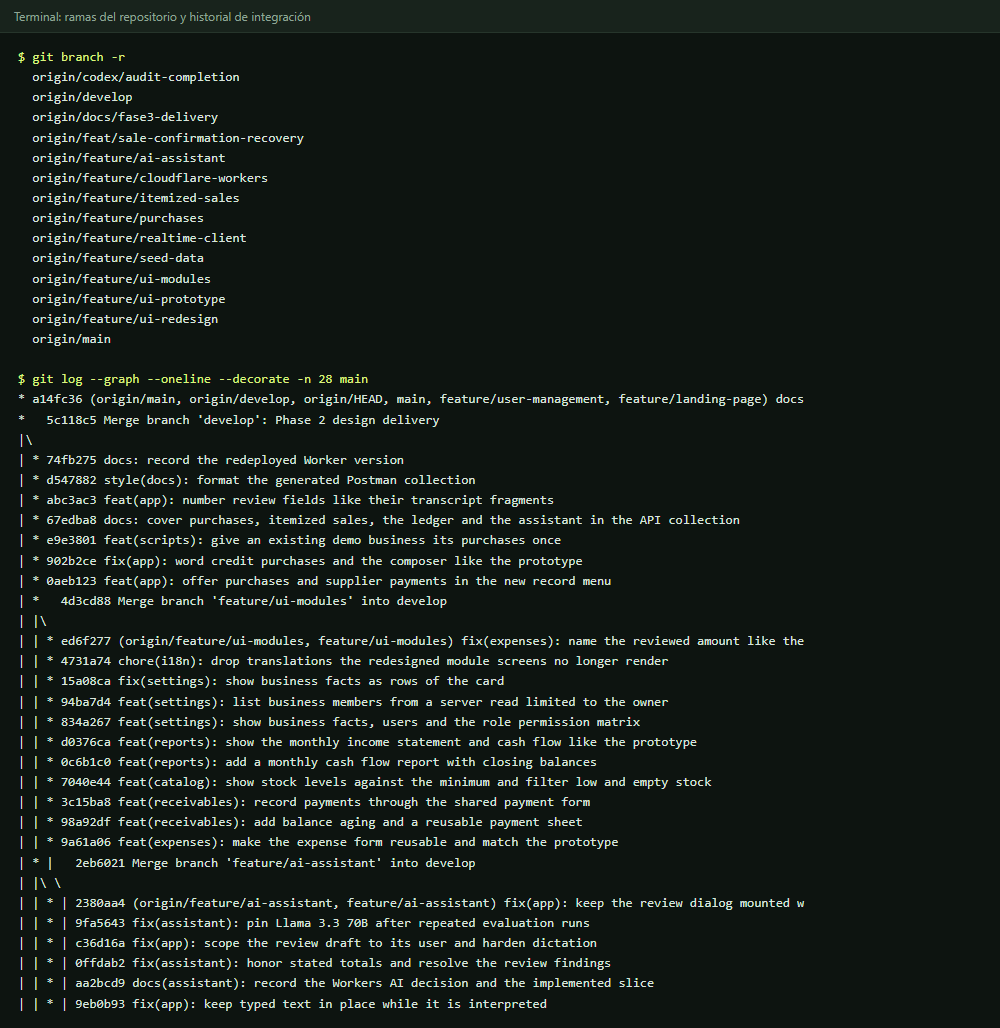
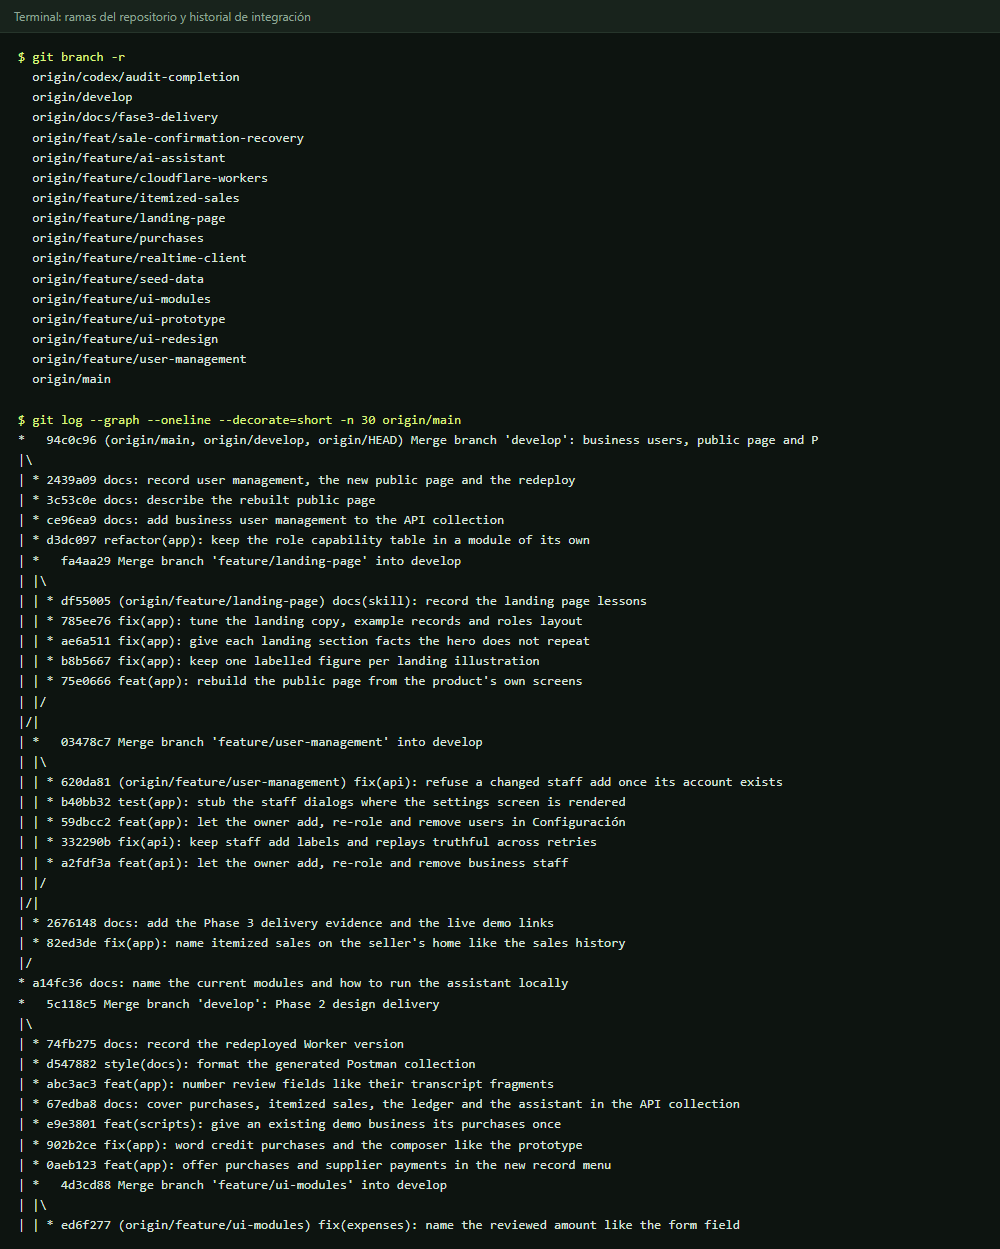
docs: complete the Phase 3 evidence with users, the public page and the deploy
The evidence page now covers business user management, the rebuilt public
page, the 147-request collection run and the production deploy output, with
39 figures numbered after the cumulative course document.

Changed region(s): [[0.0, 0.0, 0.806, 0.9961], [0.589, 0.3424, 0.806, 0.4047], [0.682, 0.4981, 0.744, 0.5292]]

diff --git a/docs/fase3-entrega.md b/docs/fase3-entrega.md
@@ -102,6 +102,10 @@ El sistema respeta la arquitectura por capas de la Fase 2. La capa de controlado
 | Asistente de IA (módulo de soporte) | GET /v1/assistant/status, POST /v1/assistant/interpretations, POST /v1/assistant/transcriptions |
 | Tiempo real | GET /v1/realtime (WebSocket) |
 
+### Gestión de usuarios
+
+El dueño del negocio administra a su personal desde Configuración: agrega un usuario nuevo (el API crea la cuenta con el mismo cifrado del registro) o una cuenta existente, le asigna el rol de encargado o vendedor, cambia su rol y lo quita del negocio. Solo el dueño puede hacerlo, nadie puede volverse dueño por esta vía, el dueño no puede quitarse a sí mismo y un usuario quitado pierde el acceso en su siguiente petición. Cada comando usa una llave de idempotencia y avisa por tiempo real a las demás sesiones.
+
 ### Mecanismos de seguridad
 
 - Contraseñas cifradas con hash scrypt (Better Auth); nunca se guardan ni se devuelven en texto plano (figura de integridad).
@@ -204,103 +208,127 @@ Las pantallas se implementaron a partir de los prototipos de alta fidelidad de l
 | Figura 23. Reportes | Reportes | /operate/reports |
 | Figura 24. Configuración | Configuración y usuarios | /settings |
 
-**Figura 38. Pantalla Inicio de sesión implementada**
+**Figura 38. Página de inicio pública**
+
+![Página de inicio pública](fase3/landing-1280.png)
+
+*Página que ve un visitante antes de iniciar sesión: la pantalla Hoy de un negocio de ejemplo, el registro por voz paso a paso, los módulos y los roles.*
+
+**Figura 39. Página de inicio pública en teléfono**
+
+![Página de inicio pública en teléfono](fase3/landing-390.png)
+
+*La misma página en un teléfono.*
+
+**Figura 40. Pantalla Inicio de sesión implementada**
 
 ![Pantalla Inicio de sesión implementada](fase3/signin-1280.png)
 
 *Implementación del prototipo de la figura 9.*
 
-**Figura 39. Pantalla Hoy implementada**
+**Figura 41. Pantalla Hoy implementada**
 
 ![Pantalla Hoy implementada](fase3/home-1280.png)
 
 *Dinero disponible con su gráfico, el registro por voz o texto, movimientos de hoy, por cobrar y por pagar (figuras 10 y 12).*
 
-**Figura 40. Pantalla Hoy en teléfono**
+**Figura 42. Pantalla Hoy en teléfono**
 
 ![Pantalla Hoy en teléfono](fase3/home-390.png)
 
 *La misma pantalla en un teléfono, con la tarjeta de dinero en lima como en la figura 11.*
 
-**Figura 41. Menú ¿Qué quiere registrar?**
+**Figura 43. Menú ¿Qué quiere registrar?**
 
 ![Menú ¿Qué quiere registrar?](fase3/new-menu-1280.png)
 
 *Las cinco opciones de registro del prototipo de la figura 11.*
 
-**Figura 42. Nuevo registro por voz**
+**Figura 44. Nuevo registro por voz**
 
 ![Nuevo registro por voz](fase3/dictation-1280.png)
 
 *Diálogo de dictado escuchando el micrófono (figura 12).*
 
-**Figura 43. Revisión del registro creado por el asistente de IA**
+**Figura 45. Revisión del registro creado por el asistente de IA**
 
 ![Revisión del registro creado por el asistente de IA](fase3/assistant-review-1280.png)
 
 *La frase dictada con sus fragmentos numerados y el formulario de venta lleno con los mismos números (figura 13); el usuario confirma antes de guardar.*
 
-**Figura 44. Pantalla Movimientos implementada**
+**Figura 46. Pantalla Movimientos implementada**
 
 ![Pantalla Movimientos implementada](fase3/movements-1280.png)
 
 *Ventas, compras, gastos, abonos y pagos en un solo libro con totales del período (figura 14).*
 
-**Figura 45. Pantalla Nueva venta implementada**
+**Figura 47. Pantalla Nueva venta implementada**
 
 ![Pantalla Nueva venta implementada](fase3/sale-new-1280.png)
 
 *Venta con productos, forma de pago y crédito (figura 15).*
 
-**Figura 46. Pantalla Nueva compra implementada**
+**Figura 48. Pantalla Nueva compra implementada**
 
 ![Pantalla Nueva compra implementada](fase3/purchase-new-1280.png)
 
 *Compra al contado o al crédito con productos que entran al inventario.*
 
-**Figura 47. Pantalla Nuevo gasto con validación**
+**Figura 49. Pantalla Nuevo gasto con validación**
 
 ![Pantalla Nuevo gasto con validación](fase3/state-validation-expense-1280.png)
 
 *Los campos obligatorios vacíos se señalan antes de enviar (figura 17).*
 
-**Figura 48. Pantalla Cuentas por cobrar implementada**
+**Figura 50. Pantalla Cuentas por cobrar implementada**
 
 ![Pantalla Cuentas por cobrar implementada](fase3/receivables-1280.png)
 
 *Saldos, antigüedad de las deudas y filtros (figura 18).*
 
-**Figura 49. Registrar abono**
+**Figura 51. Registrar abono**
 
 ![Registrar abono](fase3/payment-sheet-1280.png)
 
 *Panel para registrar el abono de un cliente (figura 19).*
 
-**Figura 50. Pantalla Cuentas por pagar implementada**
+**Figura 52. Pantalla Cuentas por pagar implementada**
 
 ![Pantalla Cuentas por pagar implementada](fase3/payables-1280.png)
 
 *Lo que se debe a proveedores, lo vencido y el próximo pago (figura 20).*
 
-**Figura 51. Pantalla Productos implementada**
+**Figura 53. Pantalla Productos implementada**
 
 ![Pantalla Productos implementada](fase3/products-1280.png)
 
 *Existencias contra el mínimo y filtros de existencia baja y agotados (figura 21).*
 
-**Figura 52. Pantalla Proveedores implementada**
+**Figura 54. Pantalla Proveedores implementada**
 
 ![Pantalla Proveedores implementada](fase3/suppliers-1280.png)
 
 *Proveedores con su saldo y compras recientes (figura 22).*
 
-**Figura 53. Pantalla Reportes implementada**
+**Figura 55. Pantalla Reportes implementada**
 
 ![Pantalla Reportes implementada](fase3/reports-1280.png)
 
 *Estado de resultados y flujo de caja mensual (figura 23).*
 
-**Figura 54. Pantalla Caja y bancos**
+**Figura 56. Pantalla Configuración y gestión de usuarios**
+
+![Pantalla Configuración y gestión de usuarios](fase3/settings-1280.png)
+
+*Usuarios del negocio con su rol y acciones para cambiarlo o quitarlo, y la matriz de permisos (figura 24).*
+
+**Figura 57. Agregar un usuario al negocio**
+
+![Agregar un usuario al negocio](fase3/settings-add-user-1280.png)
+
+*El dueño crea la cuenta de un empleado con su rol y una contraseña inicial que se guarda cifrada.*
+
+**Figura 58. Pantalla Caja y bancos**
 
 ![Pantalla Caja y bancos](fase3/cash-1280.png)
 
@@ -310,31 +338,31 @@ Las pantallas se implementaron a partir de los prototipos de alta fidelidad de l
 
 Cada pantalla muestra estados reales: esqueletos mientras carga, mensajes de validación en el campo, confirmación al guardar, errores del servidor con opción de reintentar y un aviso claro cuando el rol no tiene permiso.
 
-**Figura 55. Estado cargando**
+**Figura 59. Estado cargando**
 
 ![Estado cargando](fase3/state-loading-1280.png)
 
 *Esqueleto de la pantalla mientras llegan los datos.*
 
-**Figura 56. Estado de éxito**
+**Figura 60. Estado de éxito**
 
 ![Estado de éxito](fase3/state-success-sale-1280.png)
 
 *La venta guardada abre su detalle y muestra la notificación Venta guardada.*
 
-**Figura 57. Visualización de errores**
+**Figura 61. Visualización de errores**
 
 ![Visualización de errores](fase3/state-error-signin-1280.png)
 
 *Mensaje al intentar iniciar sesión con una contraseña incorrecta.*
 
-**Figura 58. Vista del vendedor**
+**Figura 62. Vista del vendedor**
 
 ![Vista del vendedor](fase3/seller-home-1280.png)
 
 *El vendedor solo ve los módulos que su rol permite.*
 
-**Figura 59. Acceso denegado por rol**
+**Figura 63. Acceso denegado por rol**
 
 ![Acceso denegado por rol](fase3/state-denied-seller-1280.png)
 
@@ -342,9 +370,9 @@ Cada pantalla muestra estados reales: esqueletos mientras carga, mensajes de val
 
 ## 5. Colección de pruebas manuales del API
 
-La carpeta docs/postman del repositorio contiene la colección exportada (pisto.postman_collection.json) y dos entornos (local y producción). Se importa en Postman o Bruno y prueba de forma independiente cada endpoint: 138 peticiones en 15 carpetas con 266 verificaciones del código y del contenido de cada respuesta. Se ejecuta en orden con una pausa de 1000 ms entre peticiones.
+La carpeta docs/postman del repositorio contiene la colección exportada (pisto.postman_collection.json) y dos entornos (local y producción). Se importa en Postman o Bruno y prueba de forma independiente cada endpoint: 147 peticiones en 16 carpetas que verifican el código y el contenido de cada respuesta. Se ejecuta en orden con una pausa de 1000 ms entre peticiones.
 
-**Figura 60. Ejecución de la colección con Newman**
+**Figura 64. Ejecución de la colección con Newman**
 
 ![Ejecución de la colección con Newman](fase3/term-08-newman.png)
 
@@ -353,6 +381,12 @@ La carpeta docs/postman del repositorio contiene la colección exportada (pisto.
 ## 6. Demostración y despliegue
 
 El MVP está desplegado en Cloudflare Workers: un Worker sirve la aplicación web y reenvía el API a un Durable Object que se conecta a PostgreSQL en Neon con un rol de permisos mínimos; la IA usa el enlace de Workers AI. La dirección pública es https://pisto.contact-862.workers.dev.
+
+**Figura 65. Despliegue en Cloudflare Workers**
+
+![Despliegue en Cloudflare Workers](fase3/term-09-deploy.png)
+
+*Salida del despliegue con sus enlaces (base de datos, IA, archivos estáticos) y la verificación /ready.*
 
 ### Guion de la demostración en vivo
 

diff --git a/docs/release-evidence.md b/docs/release-evidence.md
@@ -28,7 +28,9 @@ and the module screens) were merged into `develop` with one combined migration,
 - The Postman collection passed 138 requests and 266 assertions against the local Worker
   (`wrangler dev` with the remote Workers AI binding) and against the hosted Worker, with
   `--delay-request 1000`. After business user management was added it passed 147 requests and
-  285 assertions locally.
+  285 assertions locally. Against the hosted Worker, a run started within a minute of the deploy got
+  404 from the previous Durable Object version for the new user routes only; repeating folders 02
+  and 15 a few minutes later passed 26 requests and 53 assertions.
 - Migration 0010 was applied to Neon with `pisto_migrator`; `db:seed` added the demo
   suppliers, purchases and itemized sales to the existing demo business. The Worker was deployed as
   version `b1c3d2a4-24cf-4d8c-acde-c2a31e4df81d` (after migration 0011 on Neon); `/ready` reported the database as ok and a
